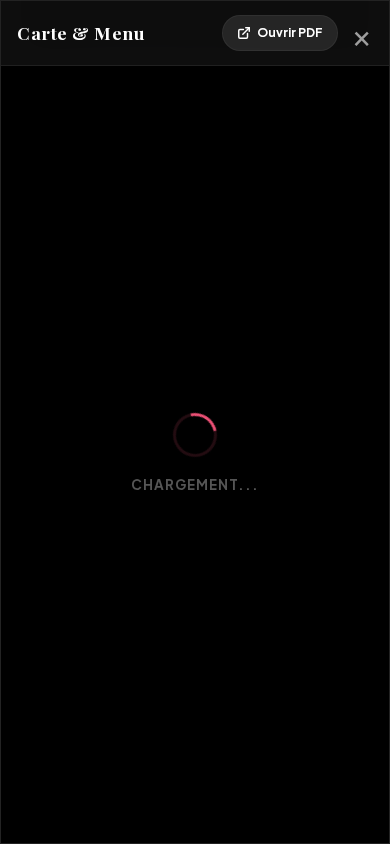
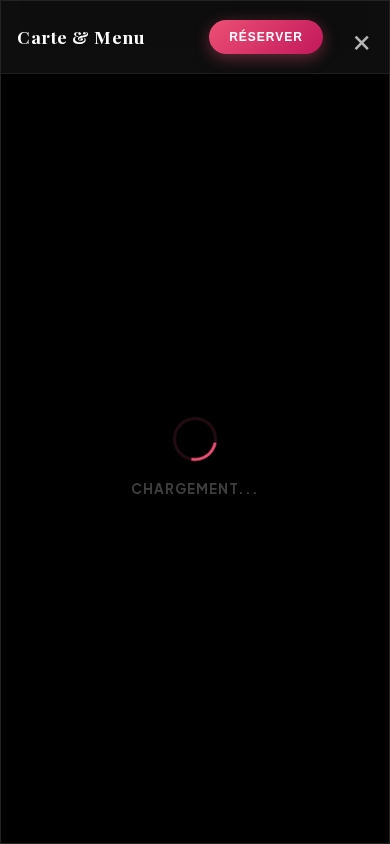
feat(menu): Upgrade to MenuEngine V21 with Reservation integration
- Replaced external PDF link with "RÉSERVER" button in menu modal.
- Passed restaurant ID context to `MenuEngine` to enable direct booking.
- Optimized close button for mobile touch targets (44px min).
- Retained V20 native rendering performance.

diff --git a/LP1FinalDark119.html b/LP1FinalDark119.html
@@ -1106,7 +1106,7 @@ iframe.story-media-item {
 }
 .story-climax-card.active .story-trust { opacity: 0.94; transform: translateY(0); }
 
-/* === ELITE MENU MODAL V18 (DARK EDITION) === */
+/* === ELITE MENU MODAL V21 (DARK EDITION) === */
 .menu-modal-overlay {
     position: fixed;
     top: 0; left: 0; width: 100%; height: 100dvh;
@@ -1136,29 +1136,42 @@ iframe.story-media-item {
     border-bottom: 1px solid rgba(255,255,255,0.08); 
     display: flex; justify-content: space-between; align-items: center; 
     background: rgba(255,255,255,0.02); 
-    flex-shrink: 0; min-height: 60px;
+    flex-shrink: 0; min-height: 70px;
 }
 .menu-header h3 { 
     font-size: 1.1rem; margin: 0; color: #fff; font-weight: 700; letter-spacing: 0.5px;
 }
-.menu-actions { display: flex; align-items: center; gap: 12px; }
+.menu-actions { display: flex; align-items: center; gap: 16px; }
 
-.btn-open-ext {
-    display: flex; align-items: center; gap: 6px;
-    background: rgba(255,255,255,0.1); color: #fff;
-    padding: 8px 14px; border-radius: 50px;
-    font-size: 0.75rem; font-weight: 700; text-decoration: none;
-    transition: all 0.2s ease; border: 1px solid rgba(255,255,255,0.05);
+/* === NEW RESERVATION BUTTON IN MENU === */
+.btn-menu-book {
+    display: flex; align-items: center; gap: 8px;
+    background: var(--brand-gradient); color: #fff;
+    padding: 10px 20px; border-radius: 50px;
+    font-size: 0.75rem; font-weight: 800; text-transform: uppercase; letter-spacing: 1px;
+    text-decoration: none; cursor: pointer; border: none;
+    box-shadow: 0 4px 15px rgba(236, 80, 117, 0.4);
+    transition: transform 0.2s cubic-bezier(0.34, 1.56, 0.64, 1);
+    -webkit-tap-highlight-color: transparent;
 }
-.btn-open-ext:hover { background: rgba(255,255,255,0.2); transform: translateY(-1px); }
-.btn-open-ext svg { width: 14px; height: 14px; stroke-width: 2.5; }
+.btn-menu-book:active { transform: scale(0.95); }
 
-.close-menu { 
-    cursor: pointer; font-size: 1.8rem; line-height: 1; color: rgba(255,255,255,0.6); 
-    padding: 8px; margin: -8px; border-radius: 50%;
-    transition: all 0.2s ease;
+/* === OPTIMIZED CLOSE BUTTON (TOUCH TARGET 44px+) === */
+.close-menu-container {
+    width: 44px; height: 44px;
+    display: flex; align-items: center; justify-content: center;
+    cursor: pointer; margin-right: -10px;
+    border-radius: 50%;
+    transition: background 0.2s ease;
+    -webkit-tap-highlight-color: transparent;
 }
-.close-menu:hover { background: rgba(255,255,255,0.1); color: #fff; transform: rotate(90deg); }
+.close-menu-container:active { background: rgba(255,255,255,0.15); }
+
+.close-menu-icon {
+    font-size: 2rem; line-height: 1; color: rgba(255,255,255,0.7);
+    transition: all 0.3s cubic-bezier(0.19, 1, 0.22, 1);
+}
+.close-menu-container:hover .close-menu-icon { color: #fff; transform: rotate(90deg); }
 
 .menu-iframe-container {
     flex: 1 1 auto; position: relative; width: 100%; min-height: 0; 
@@ -1738,17 +1751,18 @@ iframe.story-media-item {
         </div>
     </div>
 
-    <!-- === MENU MODAL V18 === -->
+    <!-- === MENU MODAL V21 === -->
     <div class="menu-modal-overlay" id="menuModal">
         <div class="menu-modal-content">
             <div class="menu-header">
                 <h3 id="menu-title">Carte & Menu</h3>
                 <div class="menu-actions">
-                    <a href="#" id="menu-external-link" target="_blank" class="btn-open-ext">
-                        <svg xmlns="http://www.w3.org/2000/svg" width="24" height="24" viewBox="0 0 24 24" fill="none" stroke="currentColor" stroke-linecap="round" stroke-linejoin="round"><path d="M18 13v6a2 2 0 0 1-2 2H5a2 2 0 0 1-2-2V8a2 2 0 0 1 2-2h6"></path><polyline points="15 3 21 3 21 9"></polyline><line x1="10" y1="14" x2="21" y2="3"></line></svg>
-                        Ouvrir PDF
-                    </a>
-                    <div class="close-menu" onclick="MenuEngine.close()">×</div>
+                    <button class="btn-menu-book" onclick="MenuEngine.book()">
+                        RÉSERVER
+                    </button>
+                    <div class="close-menu-container" onclick="MenuEngine.close()">
+                        <span class="close-menu-icon">×</span>
+                    </div>
                 </div>
             </div>
             <div class="menu-iframe-container" id="iframeContainer"></div>
@@ -2140,7 +2154,7 @@ document.addEventListener('DOMContentLoaded', function() {
                 <p class="card-description">${exp.description}</p>
                 <div class="card-meta"><span>${exp.time} • Tous les soirs</span> <span class="price-range" onclick="openMapWidget('${exp.id}', event)">${exp.price}</span></div>
                 <div class="card-actions-container">
-                    <button class="card-btn btn-menu" onclick="openMenu('${exp.menuUrl}')"><svg width="16" height="16" viewBox="0 0 24 24" fill="none" stroke="currentColor" stroke-width="2"><path d="M14 2H6a2 2 0 0 0-2 2v16a2 2 0 0 0 2 2h12a2 2 0 0 0 2-2V8z"></path><polyline points="14 2 14 8 20 8"></polyline></svg>MENU</button>
+                    <button class="card-btn btn-menu" onclick="openMenu('${exp.menuUrl}', '${exp.id}')"><svg width="16" height="16" viewBox="0 0 24 24" fill="none" stroke="currentColor" stroke-width="2"><path d="M14 2H6a2 2 0 0 0-2 2v16a2 2 0 0 0 2 2h12a2 2 0 0 0 2-2V8z"></path><polyline points="14 2 14 8 20 8"></polyline></svg>MENU</button>
                     <button class="card-btn btn-book" onclick="scrollToForm('${exp.id}')">RÉSERVER MA SOIRÉE (0€)</button>
                 </div>
                 <div class="trust-micro-signal"><svg xmlns="http://www.w3.org/2000/svg" viewBox="0 0 24 24" fill="none" stroke="currentColor" stroke-linecap="round" stroke-linejoin="round"><path d="M12 22s8-4 8-10V5l-8-3-8 3v7c0 6 8 10 8 10z"></path><path d="M9 12l2 2 4-4"></path></svg> Paiement sur place &bull; Zéro Frais</div>
@@ -2825,7 +2839,7 @@ window.StoryManager = {
 StoryManager.init();
 
 /* ============================================================================
-   ELITE MENU ENGINE V20 - NATIVE PERFORMANCE & SCROLL LOCK
+   ELITE MENU ENGINE V21 - RESERVATION INTEGRATION & OPTIMIZED UX
    ============================================================================ */
 
 const MenuEngine = (() => {
@@ -2839,12 +2853,13 @@ const MenuEngine = (() => {
     const state = {
         isOpen: false,
         currentUrl: null,
+        currentId: null, // Store restaurant ID for booking
         isDestroyed: false,
         savedScrollY: 0
     };
 
     const utils = {
-        log: (msg) => console.log(`[MenuEngine V20] ${msg}`),
+        log: (msg) => console.log(`[MenuEngine V21] ${msg}`),
         
         isIOS: () => /iPad|iPhone|iPod/i.test(navigator.userAgent) && !window.MSStream,
         isAndroid: () => /Android/i.test(navigator.userAgent)
@@ -2920,21 +2935,19 @@ const MenuEngine = (() => {
             });
         },
 
-        open: (url) => {
+        open: (url, id) => {
             if (!url) return;
             if (state.isOpen) return;
 
             state.isOpen = true;
             state.isDestroyed = false;
+            state.currentId = id; // Capture ID
 
             // 1. CAPTURE SCROLL POSITION ACCURATELY
             state.savedScrollY = window.scrollY || document.documentElement.scrollTop;
             
             const modal = document.getElementById('menuModal');
             const container = document.getElementById('iframeContainer');
-            const extLink = document.getElementById('menu-external-link');
-            
-            if(extLink) extLink.href = url;
             
             // 2. LOCK BODY (Prevents background scroll)
             document.body.style.position = 'fixed';
@@ -2949,6 +2962,14 @@ const MenuEngine = (() => {
 
             // 4. RUN ENGINE
             run(url, container);
+        },
+
+        book: () => {
+            MenuEngine.close();
+            // Wait slightly for close animation to finish/scroll restore
+            setTimeout(() => {
+                if(state.currentId) scrollToForm(state.currentId);
+            }, 50);
         },
 
         close: () => {
@@ -2993,7 +3014,7 @@ if (document.readyState === 'loading') {
     MenuEngine.init();
 }
 
-window.openMenu = (url) => MenuEngine.open(url);
+window.openMenu = (url, id) => MenuEngine.open(url, id);
 window.closeMenu = () => MenuEngine.close();
 
 
